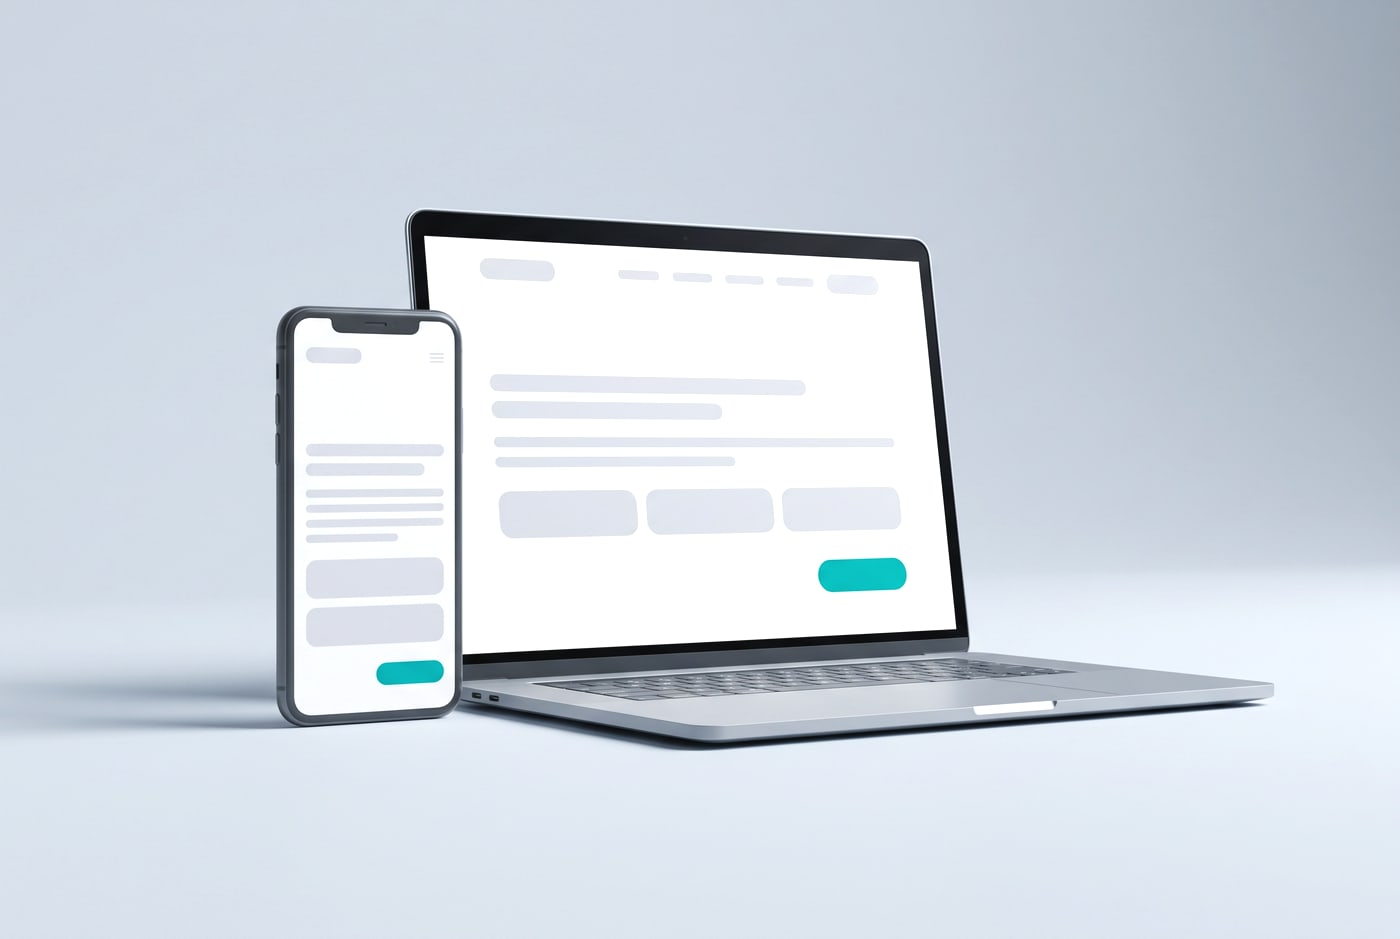
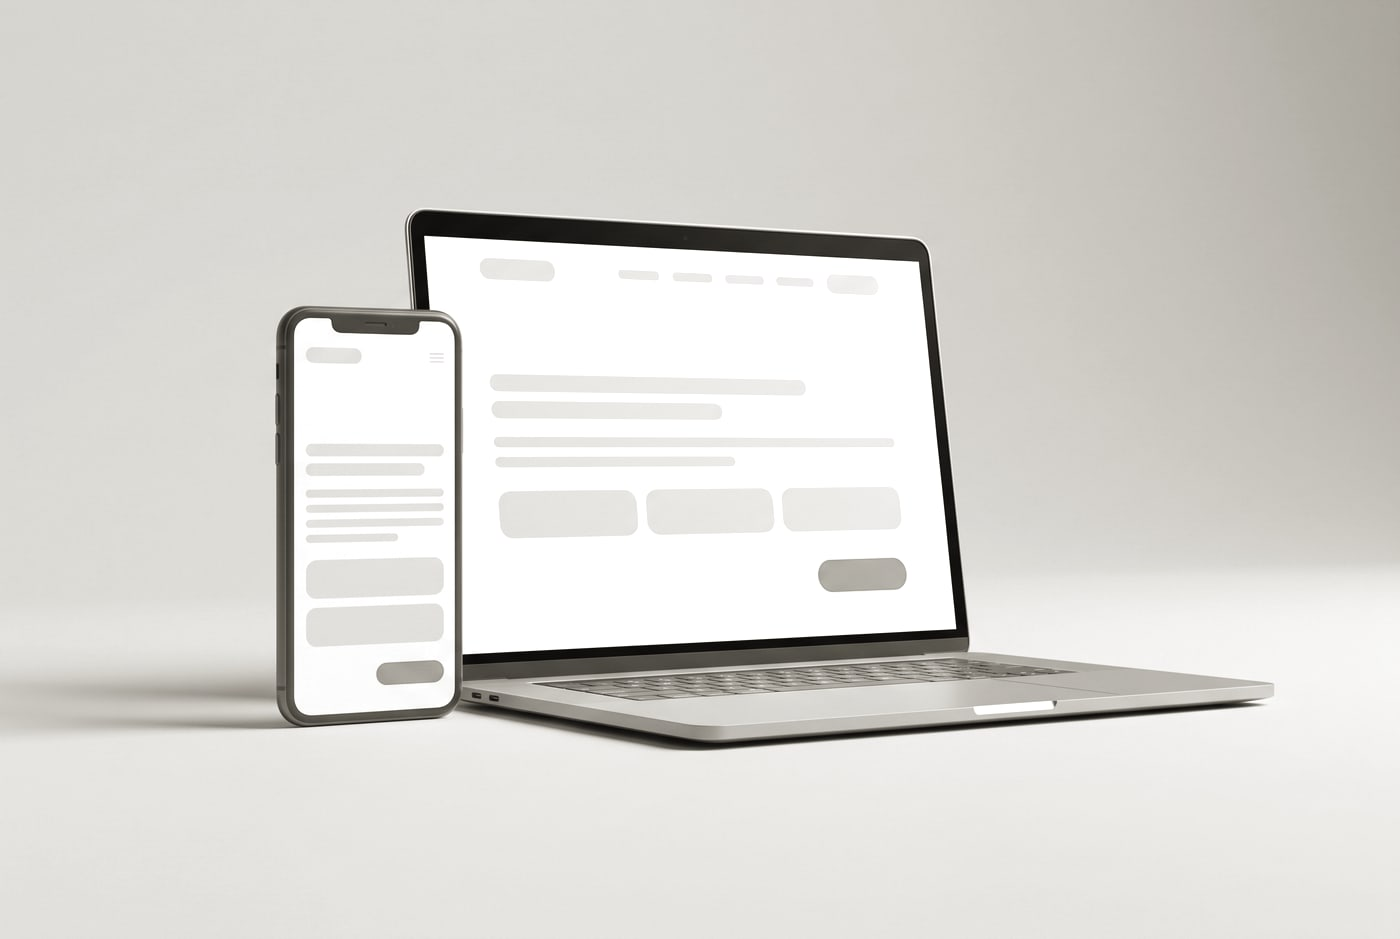
Midnight & Citrus: dark hero, warm stone base, oversized numerals
The palette was cool and light throughout, which read as pastel. Replaced
with a warm stone base that has real depth (#E9E4DA — never white), midnight
navy for the moments that matter, and citrus amber as the signature accent.

Midnight now owns the header, the hero, the CTA panel, the footer and the
mobile bar, so the top and bottom of every page are one confident dark block
and the stone body sits between them. The hero mockup was re-rendered on a
dark backdrop so it merges into the section instead of sitting on it as a
pasted card.

Personality comes from oversized numerals — hero stats, method weeks, review
checks, pricing principles and contact steps now lead with large tight
figures in their accent colour, which is what reads as confident rather than
decorative.

All 21 new colour pairs measured against AA before shipping, including every
dark-surface combination and each numeral on its tint.

diff --git a/src/styles/global.css b/src/styles/global.css
@@ -7,19 +7,22 @@
 @import 'tailwindcss';
 
 /*
- * CareInflow design system — "Clinical Cyan".
+ * CareInflow design system — "Midnight & Citrus".
  * Type, layout, spacing and motion still follow direction 2a "Instrument"
  * (docs/design/careinflow-design-system.dc.html); its COLOUR section is
  * superseded by the palette below.
  *
  * Colour rules:
- *  - Cool base, navy-black ink, vivid clinical teal primary.
+ *  - Warm stone base with real depth (never white or pastel), midnight-navy
+ *    ink, and citrus amber as the signature accent.
  *  - Vivid values are FILLS ONLY. Text and icons on light use the -deep
  *    variants, which are the ones that carry AA (every pair was measured).
- *  - A vivid teal block takes INK text — white on vivid teal is only 2.6:1.
+ *  - Vivid fills take INK text: white on vivid teal is only 3.8:1 and white
+ *    on citrus is worse. Ink on citrus is 9.9:1.
  *  - Colour arrives as solid colour-blocked sections and saturated small
  *    elements. No gradients, no glass, no glow: crisp edges are the point.
- *  - One navy block and one tint band per page; one vivid block at most.
+ *  - Midnight is reserved for moments: the hero, the CTA panel, the footer,
+ *    and at most one section per page. Everything else sits on stone.
  */
 @font-face {
   font-family: 'Manrope Variable';
@@ -49,30 +52,30 @@
   --font-sans: 'Manrope Variable', system-ui, ui-sans-serif, sans-serif;
   --font-mono: 'JetBrains Mono Variable', ui-monospace, 'Cascadia Mono', monospace;
 
-  /* Light surfaces — cool, not warm */
-  --color-canvas: #f5f8fa;
-  --color-surface: #ffffff;
-  --color-line: #dde5ea;
-  --color-line-strong: #c8d4db;
-  --color-hairline: #e9eff3;
-  --color-hairline-soft: #f1f5f8;
-  --color-line-hover: #8fd6cd;
+  /* Light surfaces — warm stone with real depth, never white or pastel */
+  --color-canvas: #e9e4da;
+  --color-surface: #f7f4ee;
+  --color-line: #d6cfc2;
+  --color-line-strong: #c4bbaa;
+  --color-hairline: #dfd9ce;
+  --color-hairline-soft: #efebe3;
+  --color-line-hover: #ffb020;
 
   /* Brand. `surgical` is the AA-safe deep teal used for text and labels. */
-  --color-surgical: #076c63;
-  --color-vivid: #00b3a4;
-  --color-pass: #007a59;
-  --color-ink: #0a1622;
+  --color-surgical: #0a6b63;
+  --color-vivid: #ffb020;
+  --color-pass: #0a6b63;
+  --color-ink: #0a1628;
 
-  /* Text — measured against canvas and surface */
-  --color-body: #47576b;
-  --color-body-deep: #33455a;
-  --color-muted: #5a6b7d;
-  --color-faint: #606e7c;
+  /* Text — navy-family, measured against stone and surface */
+  --color-body: #3e4a5c;
+  --color-body-deep: #2c3646;
+  --color-muted: #4f5a6b;
+  --color-faint: #59636f;
 
   /* Tints */
-  --color-surgical-tint: #e0f5f2;
-  --color-pass-tint: #ddf3ea;
+  --color-surgical-tint: #dceeeb;
+  --color-pass-tint: #dceeeb;
   --color-star: #b8862f;
 
   /*
@@ -81,33 +84,38 @@
    * and on its own tint), `-tint` for large light areas and the panels that
    * `mix-blend-multiply` illustrations sit on.
    */
-  --color-a-green: #076c63;
-  --color-a-green-vivid: #00b3a4;
-  --color-a-green-tint: #e0f5f2;
-  --color-a-blue: #372fa8;
-  --color-a-blue-vivid: #4338ca;
-  --color-a-blue-tint: #e9e8fb;
-  --color-a-amber: #964f03;
-  --color-a-amber-vivid: #d97706;
-  --color-a-amber-tint: #fdf0dc;
-  --color-a-teal: #0b5a70;
-  --color-a-teal-vivid: #0e7490;
-  --color-a-teal-tint: #e0f2f7;
-  --color-a-plum: #6428c8;
-  --color-a-plum-vivid: #7c3aed;
-  --color-a-plum-tint: #f1e9fe;
+  /* green = clinical teal — websites, brand */
+  --color-a-green: #0a6b63;
+  --color-a-green-vivid: #0e8c82;
+  --color-a-green-tint: #dceeeb;
+  /* blue = indigo — local SEO */
+  --color-a-blue: #3a32a8;
+  --color-a-blue-vivid: #4b4bd6;
+  --color-a-blue-tint: #e4e3f7;
+  /* amber = citrus — Google Business Profile, and the signature accent */
+  --color-a-amber: #7a5000;
+  --color-a-amber-vivid: #ffb020;
+  --color-a-amber-tint: #fbedd3;
+  /* teal = slate blue — website care */
+  --color-a-teal: #1f5f76;
+  --color-a-teal-vivid: #2e7d9a;
+  --color-a-teal-tint: #deebf1;
+  /* plum = coral — social media */
+  --color-a-plum: #a83a20;
+  --color-a-plum-vivid: #ff6b4a;
+  --color-a-plum-tint: #fbe4dd;
 
-  /* Navy panel family */
-  --color-panel: #0a1622;
-  --color-panel-card: #10202f;
-  --color-panel-line: #1e3245;
-  --color-panel-line-alt: #24405a;
-  --color-panel-divider: #17293a;
-  --color-panel-chip: #0d3b3a;
-  --color-panel-text: #a7b8c9;
-  --color-panel-text-dim: #8a9daf;
-  --color-panel-text-faint: #7c8fa2;
-  --color-panel-accent: #45e0ce;
+  /* Midnight panel family — hero, CTA, footer and one section per page */
+  --color-panel: #0a1628;
+  --color-panel-card: #14243e;
+  --color-panel-line: #26375a;
+  --color-panel-line-alt: #2f4368;
+  --color-panel-divider: #1b2b48;
+  --color-panel-chip: #2a2010;
+  --color-panel-text: #b9c6d6;
+  --color-panel-text-dim: #97a6b8;
+  --color-panel-text-faint: #8797aa;
+  --color-panel-accent: #ffb020;
 
   /* One easing for everything */
   --ease-instrument: cubic-bezier(0.22, 1, 0.36, 1);
@@ -217,14 +225,14 @@
     max-width: 200px;
     background: repeating-linear-gradient(
       to right,
-      #c3d2dc 0 1px,
+      #c0b6a6 0 1px,
       transparent 1px 11px
     );
   }
   .tick-rule-dark {
     background: repeating-linear-gradient(
       to right,
-      #2b4257 0 1px,
+      #31446b 0 1px,
       transparent 1px 11px
     );
   }
@@ -237,6 +245,14 @@
   .band-vivid {
     background: var(--color-vivid);
     color: var(--color-ink);
+  }
+  /* Oversized numeral — the personality device. Large, tight, and set in the
+     accent so a section reads as a chapter rather than another card grid. */
+  .numeral {
+    font-weight: 800;
+    letter-spacing: -0.05em;
+    line-height: 0.85;
+    font-variant-numeric: tabular-nums;
   }
   .band-vivid .band-rule {
     background: color-mix(in srgb, var(--color-ink) 22%, transparent);
@@ -279,6 +295,46 @@
     transform: translateY(-2px);
     text-decoration: none;
   }
+  /* Citrus CTA — ink text, because white on citrus fails AA. */
+  .btn-accent {
+    display: inline-flex;
+    align-items: center;
+    justify-content: center;
+    gap: 10px;
+    background: var(--color-vivid);
+    color: var(--color-ink);
+    font-weight: 700;
+    border-radius: 12px;
+    transition:
+      transform 200ms var(--ease-instrument),
+      filter 200ms linear;
+  }
+  .btn-accent:hover {
+    transform: translateY(-2px);
+    filter: brightness(1.06);
+    text-decoration: none;
+  }
+
+  /* Outlined button for midnight sections. */
+  .btn-on-dark {
+    display: inline-flex;
+    align-items: center;
+    justify-content: center;
+    gap: 10px;
+    border: 1px solid var(--color-panel-line-alt);
+    color: var(--color-surface);
+    font-weight: 600;
+    border-radius: 12px;
+    transition:
+      transform 200ms var(--ease-instrument),
+      border-color 200ms linear;
+  }
+  .btn-on-dark:hover {
+    transform: translateY(-2px);
+    border-color: var(--color-panel-accent);
+    text-decoration: none;
+  }
+
   .btn-secondary {
     display: inline-flex;
     align-items: center;
